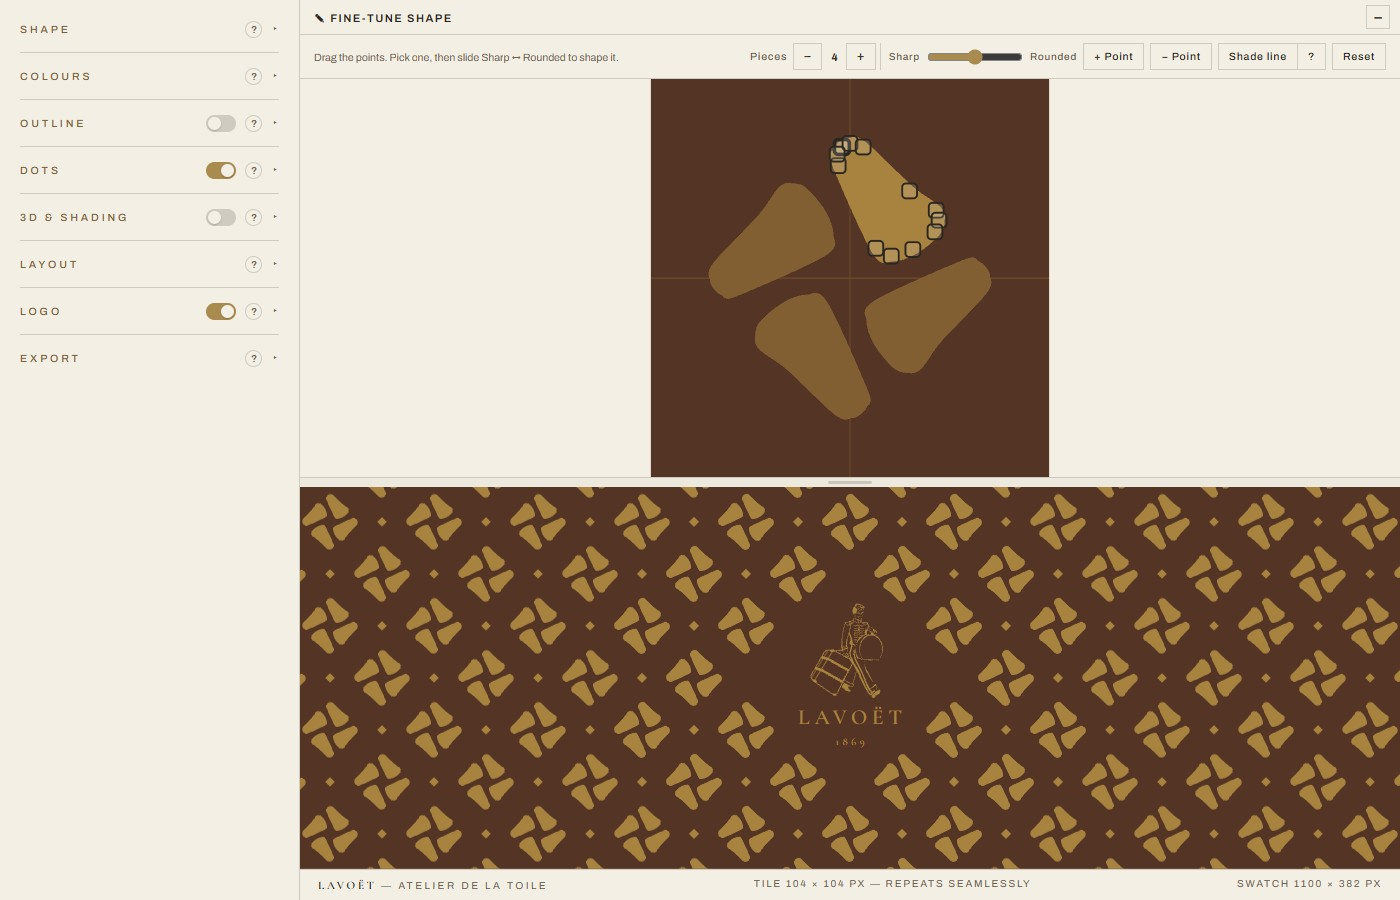
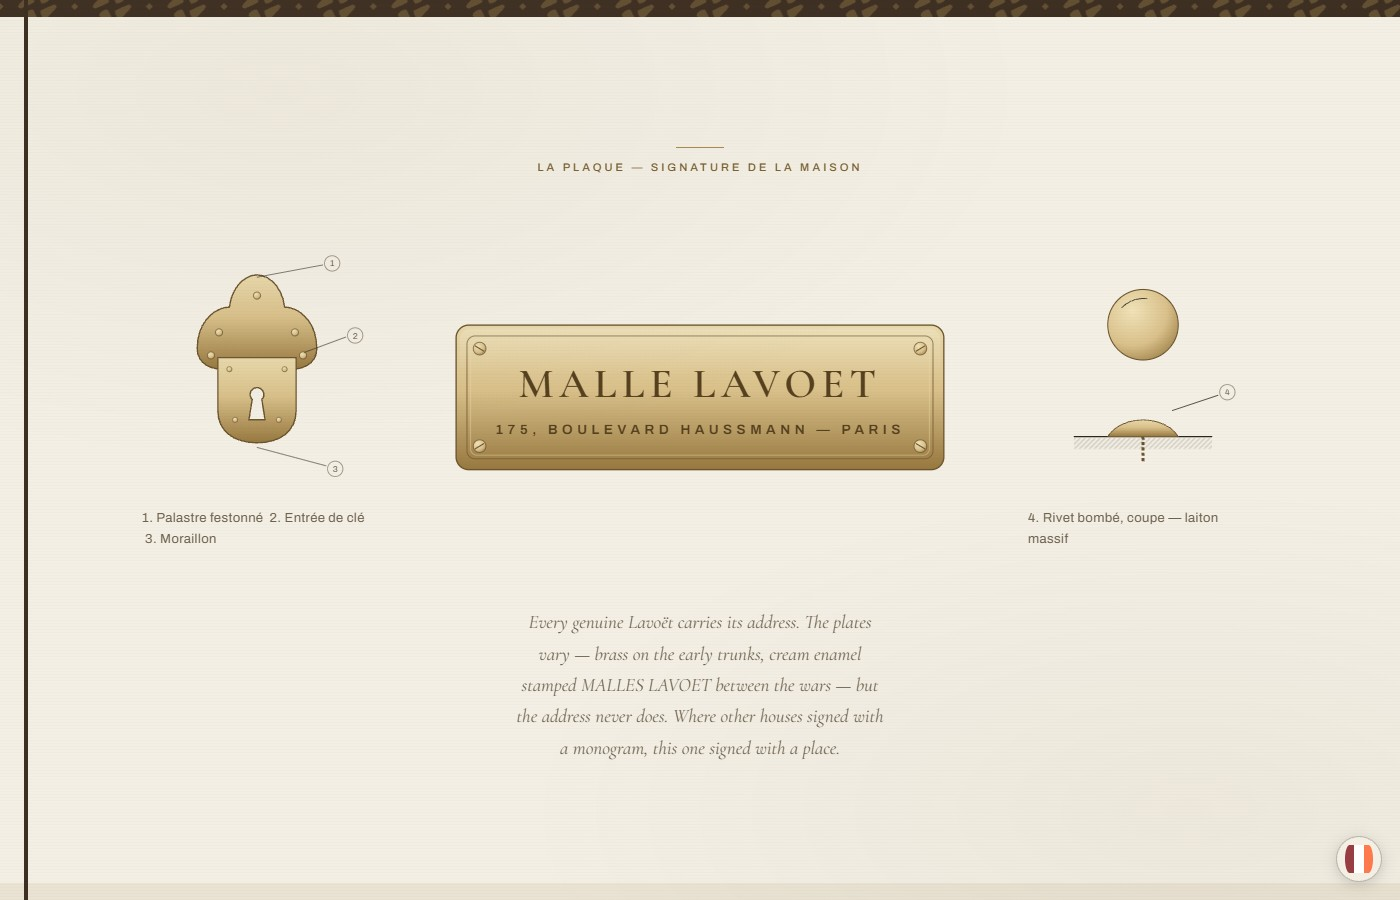
Updates

diff --git a/index.html b/index.html
@@ -1,1 +1,1 @@
-<!doctype html><html lang="en"><head><meta charset="utf-8"/><link rel="icon" href="/logoV6.png"/><meta name="viewport" content="width=device-width,initial-scale=1"/><meta name="theme-color" content="#0a0c11"/><title>Hyder Mohyuddin | Portfolio</title><meta name="title" content="Hyder Mohyuddin | Portfolio"/><meta name="description" content="AI & Software • Systems • Interfaces — A focused, evolving portfolio by Hyder Mohyuddin."/><meta property="og:type" content="website"/><meta property="og:url" content="https://hydermohyuddin.com/"/><meta property="og:title" content="Hyder Mohyuddin | Portfolio"/><meta property="og:description" content="AI & Software • Systems • Interfaces — A focused, evolving portfolio by Hyder Mohyuddin."/><meta property="og:image" content="https://hydermohyuddin.com/preview.png"/><meta name="twitter:card" content="summary_large_image"/><meta name="twitter:url" content="https://hydermohyuddin.com/"/><meta name="twitter:title" content="Hyder Mohyuddin | Portfolio"/><meta name="twitter:description" content="AI & Software • Systems • Interfaces — A focused, evolving portfolio by Hyder Mohyuddin."/><meta name="twitter:image" content="https://hydermohyuddin.com/preview.png"/><link rel="apple-touch-icon" href="/logoV6.png"/><link rel="manifest" href="/manifest.json"/><style>body{margin:0;background:#0b0d12}#loader{position:fixed;inset:0;z-index:100000;display:flex;align-items:center;justify-content:center;background:#0b0d12;opacity:1;transition:opacity .4s ease}#loader.loader-exit{opacity:0}#loader-canvas{position:absolute;inset:0;width:100%;height:100%;pointer-events:none}.loader-logo{position:relative;width:1px;height:1px;pointer-events:none}.loader-impact{position:absolute;left:50%;top:50%;translate:-50% -50%;width:340px;height:340px;border-radius:50%;background:radial-gradient(circle,rgba(184,255,216,.35) 0,rgba(158,216,255,.14) 35%,rgba(183,197,255,.06) 60%,transparent 72%);mix-blend-mode:screen;pointer-events:none;opacity:0;z-index:2}#loader.go .loader-impact{animation:softBloom .4s .3s ease-out forwards}@keyframes softBloom{0%{transform:scale(.35);opacity:0}25%{opacity:1}100%{transform:scale(2.3);opacity:0}}@media (prefers-reduced-motion:reduce){.go .loader-impact{animation:none!important;opacity:0}}</style><script defer="defer" src="/static/js/main.4de7d0a9.js"></script><link href="/static/css/main.c06933d6.css" rel="stylesheet"></head><body style="background:#0b0d12"><noscript>You need to enable JavaScript to run this app.</noscript><div id="loader"><canvas id="loader-canvas"></canvas><div class="loader-logo"><div class="loader-impact"></div></div></div><script>!function(){if(sessionStorage.getItem("skip-loader")){sessionStorage.removeItem("skip-loader");var e=document.getElementById("loader");e&&e.remove()}else{var t=document.getElementById("loader"),n=document.getElementById("loader-canvas");if(t&&n){var i=n.getContext&&n.getContext("2d");if(i){t.querySelector(".loader-logo");var a=["#ff72a1","#b48bff","#7fd3ff","#78ffa8"],r=[function(e,t,n,i){return Math.min(3,Math.floor((e/n+t/i)/2*4))},function(e,t,n,i){return Math.min(3,Math.floor(((n-e)/n+t/i)/2*4))},function(e,t,n,i){return Math.min(3,Math.floor(t/i*4))},function(e,t,n,i){return Math.min(3,Math.floor(e/n*4))},function(e,t,n,i){var a=e-n/2,r=t-i/2,o=Math.sqrt(a*a+r*r),l=Math.sqrt(n/2*(n/2)+i/2*(i/2));return Math.min(3,Math.floor(o/l*4))},function(e,t,n,i){return(t>=i/2?2:0)+(e>=n/2?1:0)}],o=r[Math.random()*r.length|0],l=0,d=120,h=0,s=68,c=3.8,f=window.matchMedia&&window.matchMedia("(prefers-reduced-motion: reduce)").matches,m=1,u=0,g=0,v=0,w=0;P(),window.addEventListener("resize",P);var M=S("M8,0 L20,0 L20,28 L49,28 L49,0 L61,0 L61,68 L49,68 L49,40 L20,40 L20,68 L8,68 Z",240),y=S("M49,0 L63,0 L75,30 L87,0 L101,0 L101,68 L89,68 L89,22 L77,50 L73,50 L61,22 L61,68 L49,68 Z",240);if(M.length&&y.length){!function(){for(var e=M.concat(y),t=1/0,n=-1/0,i=1/0,a=-1/0,r=0;r<e.length;r++){var o=e[r];o[0]<t&&(t=o[0]),o[0]>n&&(n=o[0]),o[1]<i&&(i=o[1]),o[1]>a&&(a=o[1])}l=t,d=n,h=i,s=a}(),P();var L=.9*Math.max(window.innerWidth,window.innerHeight),x=[];q(M,Math.PI),q(y,0);var b="assembling",p=0,A=null,E=0;new MutationObserver((function(){t.classList.contains("loader-exit")&&"exiting"!==b&&(b="exiting")})).observe(t,{attributes:!0,attributeFilter:["class"]}),F();var I=!1;"complete"===document.readyState?D():(window.addEventListener("load",D,{once:!0}),setTimeout(D,1500)),window.addEventListener("pageshow",(function(e){e.persisted&&t.parentNode&&(t.classList.remove("loader-exit"),z())}))}}}}function P(){m=Math.min(2,window.devicePixelRatio||1),n.width=Math.floor(window.innerWidth*m),n.height=Math.floor(window.innerHeight*m),n.style.width=window.innerWidth+"px",n.style.height=window.innerHeight+"px",i.setTransform(m,0,0,m,0,0),u=window.innerWidth/2,g=window.innerHeight/2;var e=Math.max(1,d-l),t=Math.max(1,s-h),a=(window.innerWidth-40)/e,r=(window.innerHeight-80)/t;if(c=Math.max(1,Math.min(3.8,a,r)),v=u-(l+d)/2*c,w=g-(h+s)/2*c,void 0!==x&&x&&x.length)for(var o=0;o<x.length;o++){var f=x[o];null!=f.lx&&(f.tx=v+f.lx*c,f.ty=w+f.ly*c)}}function S(e,t){try{var n=480,i=document.createElement("canvas");i.width=n,i.height=272;var a=i.getContext("2d");a.scale(4,4),a.fillStyle="#fff",a.fill(new Path2D(e));for(var r=a.getImageData(0,0,n,272).data,o=[],l=0;l<272;l++)for(var d=0;d<n;d++)r[4*(l*n+d)+3]>128&&o.push([d/4,l/4]);if(!o.length)return[];for(var h=[],s=0;s<t;s++){var c=o[Math.random()*o.length|0];h.push([c[0],c[1]])}return h}catch(e){return[]}}function q(e,t){for(var n=0;n<e.length;n++){var i=e[n][0],r=e[n][1],l=o(i,r,120,68),d=t+(Math.random()-.5)*Math.PI*1.2,h=L*(.55+.55*Math.random()),s=u+Math.cos(d)*h,f=g+Math.sin(d)*h;x.push({lx:i,ly:r,tx:v+i*c,ty:w+r*c,sx:s,sy:f,x:s,y:f,color:a[l],size:1.2+1.1*Math.random(),startDelay:140*Math.random()})}}function W(){if("exiting"!==b)if(document.hidden||document.prerendering)E=requestAnimationFrame(W);else{var e=performance.now();if(null!=A){var t=e-A;if(t<3)return A=e,void(E=requestAnimationFrame(W));t>50&&(t=33),p+=t}A=e,i.clearRect(0,0,window.innerWidth,window.innerHeight);for(var n=0;n<x.length;n++){var a=x[n];p>a.startDelay?(a.x+=.095*(a.tx-a.x),a.y+=.095*(a.ty-a.y),i.globalAlpha=Math.min(1,(p-a.startDelay)/110)):i.globalAlpha=.22,i.fillStyle=a.color,i.beginPath(),i.arc(a.x,a.y,a.size,0,2*Math.PI),i.fill()}i.globalAlpha=1,"assembling"===b&&p>720&&(b="settled"),E=requestAnimationFrame(W)}}function F(){i.clearRect(0,0,window.innerWidth,window.innerHeight);for(var e=0;e<x.length;e++){var t=x[e];i.fillStyle=t.color,i.globalAlpha=.22,i.beginPath(),i.arc(t.sx,t.sy,t.size,0,2*Math.PI),i.fill()}i.globalAlpha=1}function H(){p=0,A=null,b="assembling";for(var e=0;e<x.length;e++)x[e].x=x[e].sx,x[e].y=x[e].sy;E&&cancelAnimationFrame(E),F(),t.classList.remove("go"),t.offsetWidth,requestAnimationFrame((function(){requestAnimationFrame((function(){t.classList.add("go");try{window.dispatchEvent(new Event("loader-anim-started"))}catch(e){}f?function(){i.clearRect(0,0,window.innerWidth,window.innerHeight);for(var e=0;e<x.length;e++){var t=x[e];i.fillStyle=t.color,i.globalAlpha=1,i.beginPath(),i.arc(t.tx,t.ty,t.size,0,2*Math.PI),i.fill()}}():E=requestAnimationFrame(W)}))}))}function z(){if("visible"===document.visibilityState)H();else{var e=function(){"visible"===document.visibilityState&&(document.removeEventListener("visibilitychange",e),H())};document.addEventListener("visibilitychange",e)}}function D(){I||(document.prerendering?document.addEventListener("prerenderingchange",D,{once:!0}):(I=!0,z()))}}()</script><script>!function(n){if("/"===n.search[1]){var a=n.search.slice(1).split("&").map((function(n){return n.replace(/~and~/g,"&")})).join("?");window.history.replaceState(null,null,n.pathname.slice(0,-1)+a+n.hash)}}(window.location)</script><div id="root"></div></body></html>
+<!doctype html><html lang="en"><head><meta charset="utf-8"/><link rel="icon" href="/logoV6.png"/><meta name="viewport" content="width=device-width,initial-scale=1"/><meta name="theme-color" content="#0a0c11"/><title>Hyder Mohyuddin | Portfolio</title><meta name="title" content="Hyder Mohyuddin | Portfolio"/><meta name="description" content="AI & Software • Systems • Interfaces — A focused, evolving portfolio by Hyder Mohyuddin."/><meta property="og:type" content="website"/><meta property="og:url" content="https://hydermohyuddin.com/"/><meta property="og:title" content="Hyder Mohyuddin | Portfolio"/><meta property="og:description" content="AI & Software • Systems • Interfaces — A focused, evolving portfolio by Hyder Mohyuddin."/><meta property="og:image" content="https://hydermohyuddin.com/preview.png"/><meta name="twitter:card" content="summary_large_image"/><meta name="twitter:url" content="https://hydermohyuddin.com/"/><meta name="twitter:title" content="Hyder Mohyuddin | Portfolio"/><meta name="twitter:description" content="AI & Software • Systems • Interfaces — A focused, evolving portfolio by Hyder Mohyuddin."/><meta name="twitter:image" content="https://hydermohyuddin.com/preview.png"/><link rel="apple-touch-icon" href="/logoV6.png"/><link rel="manifest" href="/manifest.json"/><style>body{margin:0;background:#0b0d12}#loader{position:fixed;inset:0;z-index:100000;display:flex;align-items:center;justify-content:center;background:#0b0d12;opacity:1;transition:opacity .4s ease}#loader.loader-exit{opacity:0}#loader-canvas{position:absolute;inset:0;width:100%;height:100%;pointer-events:none}.loader-logo{position:relative;width:1px;height:1px;pointer-events:none}.loader-impact{position:absolute;left:50%;top:50%;translate:-50% -50%;width:340px;height:340px;border-radius:50%;background:radial-gradient(circle,rgba(184,255,216,.35) 0,rgba(158,216,255,.14) 35%,rgba(183,197,255,.06) 60%,transparent 72%);mix-blend-mode:screen;pointer-events:none;opacity:0;z-index:2}#loader.go .loader-impact{animation:softBloom .4s .3s ease-out forwards}@keyframes softBloom{0%{transform:scale(.35);opacity:0}25%{opacity:1}100%{transform:scale(2.3);opacity:0}}@media (prefers-reduced-motion:reduce){.go .loader-impact{animation:none!important;opacity:0}}</style><script defer="defer" src="/static/js/main.6d65cb56.js"></script><link href="/static/css/main.c06933d6.css" rel="stylesheet"></head><body style="background:#0b0d12"><noscript>You need to enable JavaScript to run this app.</noscript><div id="loader"><canvas id="loader-canvas"></canvas><div class="loader-logo"><div class="loader-impact"></div></div></div><script>!function(){if(sessionStorage.getItem("skip-loader")){sessionStorage.removeItem("skip-loader");var e=document.getElementById("loader");e&&e.remove()}else{var t=document.getElementById("loader"),n=document.getElementById("loader-canvas");if(t&&n){var i=n.getContext&&n.getContext("2d");if(i){t.querySelector(".loader-logo");var a=["#ff72a1","#b48bff","#7fd3ff","#78ffa8"],r=[function(e,t,n,i){return Math.min(3,Math.floor((e/n+t/i)/2*4))},function(e,t,n,i){return Math.min(3,Math.floor(((n-e)/n+t/i)/2*4))},function(e,t,n,i){return Math.min(3,Math.floor(t/i*4))},function(e,t,n,i){return Math.min(3,Math.floor(e/n*4))},function(e,t,n,i){var a=e-n/2,r=t-i/2,o=Math.sqrt(a*a+r*r),l=Math.sqrt(n/2*(n/2)+i/2*(i/2));return Math.min(3,Math.floor(o/l*4))},function(e,t,n,i){return(t>=i/2?2:0)+(e>=n/2?1:0)}],o=r[Math.random()*r.length|0],l=0,d=120,h=0,s=68,c=3.8,f=window.matchMedia&&window.matchMedia("(prefers-reduced-motion: reduce)").matches,m=1,u=0,g=0,v=0,w=0;P(),window.addEventListener("resize",P);var M=S("M8,0 L20,0 L20,28 L49,28 L49,0 L61,0 L61,68 L49,68 L49,40 L20,40 L20,68 L8,68 Z",240),y=S("M49,0 L63,0 L75,30 L87,0 L101,0 L101,68 L89,68 L89,22 L77,50 L73,50 L61,22 L61,68 L49,68 Z",240);if(M.length&&y.length){!function(){for(var e=M.concat(y),t=1/0,n=-1/0,i=1/0,a=-1/0,r=0;r<e.length;r++){var o=e[r];o[0]<t&&(t=o[0]),o[0]>n&&(n=o[0]),o[1]<i&&(i=o[1]),o[1]>a&&(a=o[1])}l=t,d=n,h=i,s=a}(),P();var L=.9*Math.max(window.innerWidth,window.innerHeight),x=[];q(M,Math.PI),q(y,0);var b="assembling",p=0,A=null,E=0;new MutationObserver((function(){t.classList.contains("loader-exit")&&"exiting"!==b&&(b="exiting")})).observe(t,{attributes:!0,attributeFilter:["class"]}),F();var I=!1;"complete"===document.readyState?D():(window.addEventListener("load",D,{once:!0}),setTimeout(D,1500)),window.addEventListener("pageshow",(function(e){e.persisted&&t.parentNode&&(t.classList.remove("loader-exit"),z())}))}}}}function P(){m=Math.min(2,window.devicePixelRatio||1),n.width=Math.floor(window.innerWidth*m),n.height=Math.floor(window.innerHeight*m),n.style.width=window.innerWidth+"px",n.style.height=window.innerHeight+"px",i.setTransform(m,0,0,m,0,0),u=window.innerWidth/2,g=window.innerHeight/2;var e=Math.max(1,d-l),t=Math.max(1,s-h),a=(window.innerWidth-40)/e,r=(window.innerHeight-80)/t;if(c=Math.max(1,Math.min(3.8,a,r)),v=u-(l+d)/2*c,w=g-(h+s)/2*c,void 0!==x&&x&&x.length)for(var o=0;o<x.length;o++){var f=x[o];null!=f.lx&&(f.tx=v+f.lx*c,f.ty=w+f.ly*c)}}function S(e,t){try{var n=480,i=document.createElement("canvas");i.width=n,i.height=272;var a=i.getContext("2d");a.scale(4,4),a.fillStyle="#fff",a.fill(new Path2D(e));for(var r=a.getImageData(0,0,n,272).data,o=[],l=0;l<272;l++)for(var d=0;d<n;d++)r[4*(l*n+d)+3]>128&&o.push([d/4,l/4]);if(!o.length)return[];for(var h=[],s=0;s<t;s++){var c=o[Math.random()*o.length|0];h.push([c[0],c[1]])}return h}catch(e){return[]}}function q(e,t){for(var n=0;n<e.length;n++){var i=e[n][0],r=e[n][1],l=o(i,r,120,68),d=t+(Math.random()-.5)*Math.PI*1.2,h=L*(.55+.55*Math.random()),s=u+Math.cos(d)*h,f=g+Math.sin(d)*h;x.push({lx:i,ly:r,tx:v+i*c,ty:w+r*c,sx:s,sy:f,x:s,y:f,color:a[l],size:1.2+1.1*Math.random(),startDelay:140*Math.random()})}}function W(){if("exiting"!==b)if(document.hidden||document.prerendering)E=requestAnimationFrame(W);else{var e=performance.now();if(null!=A){var t=e-A;if(t<3)return A=e,void(E=requestAnimationFrame(W));t>50&&(t=33),p+=t}A=e,i.clearRect(0,0,window.innerWidth,window.innerHeight);for(var n=0;n<x.length;n++){var a=x[n];p>a.startDelay?(a.x+=.095*(a.tx-a.x),a.y+=.095*(a.ty-a.y),i.globalAlpha=Math.min(1,(p-a.startDelay)/110)):i.globalAlpha=.22,i.fillStyle=a.color,i.beginPath(),i.arc(a.x,a.y,a.size,0,2*Math.PI),i.fill()}i.globalAlpha=1,"assembling"===b&&p>720&&(b="settled"),E=requestAnimationFrame(W)}}function F(){i.clearRect(0,0,window.innerWidth,window.innerHeight);for(var e=0;e<x.length;e++){var t=x[e];i.fillStyle=t.color,i.globalAlpha=.22,i.beginPath(),i.arc(t.sx,t.sy,t.size,0,2*Math.PI),i.fill()}i.globalAlpha=1}function H(){p=0,A=null,b="assembling";for(var e=0;e<x.length;e++)x[e].x=x[e].sx,x[e].y=x[e].sy;E&&cancelAnimationFrame(E),F(),t.classList.remove("go"),t.offsetWidth,requestAnimationFrame((function(){requestAnimationFrame((function(){t.classList.add("go");try{window.dispatchEvent(new Event("loader-anim-started"))}catch(e){}f?function(){i.clearRect(0,0,window.innerWidth,window.innerHeight);for(var e=0;e<x.length;e++){var t=x[e];i.fillStyle=t.color,i.globalAlpha=1,i.beginPath(),i.arc(t.tx,t.ty,t.size,0,2*Math.PI),i.fill()}}():E=requestAnimationFrame(W)}))}))}function z(){if("visible"===document.visibilityState)H();else{var e=function(){"visible"===document.visibilityState&&(document.removeEventListener("visibilitychange",e),H())};document.addEventListener("visibilitychange",e)}}function D(){I||(document.prerendering?document.addEventListener("prerenderingchange",D,{once:!0}):(I=!0,z()))}}()</script><script>!function(n){if("/"===n.search[1]){var a=n.search.slice(1).split("&").map((function(n){return n.replace(/~and~/g,"&")})).join("?");window.history.replaceState(null,null,n.pathname.slice(0,-1)+a+n.hash)}}(window.location)</script><div id="root"></div></body></html>